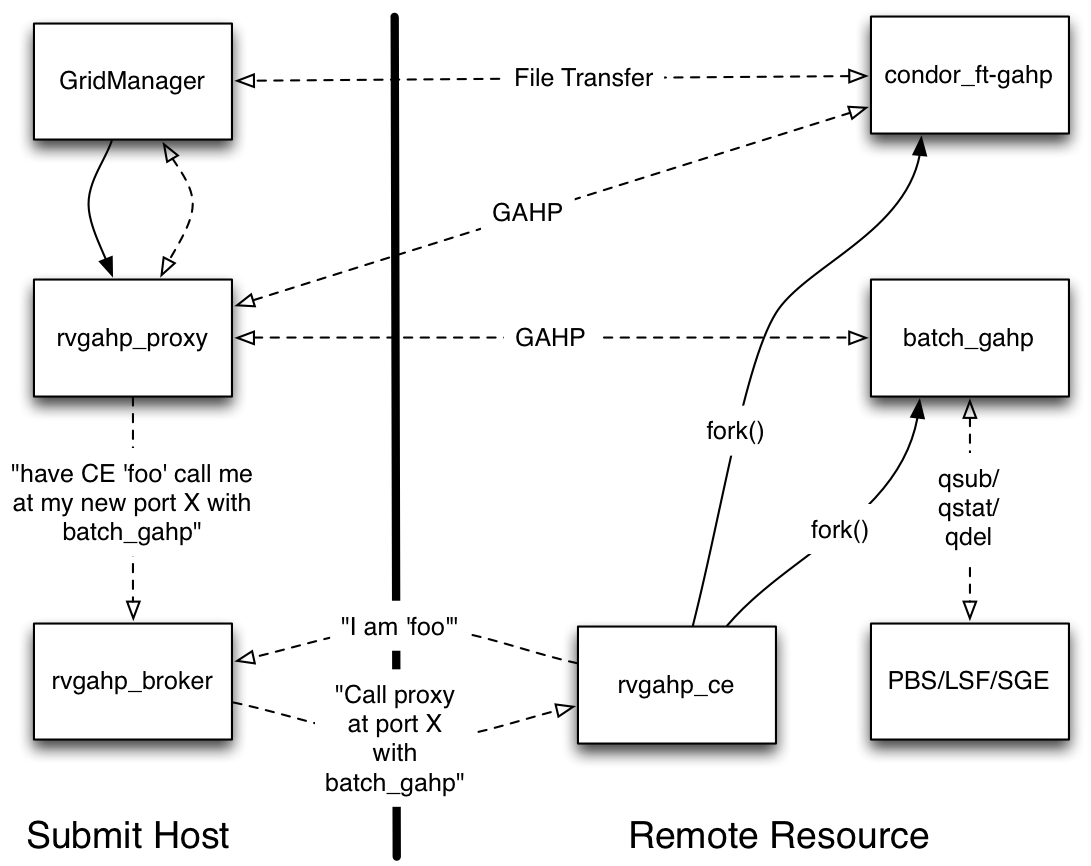
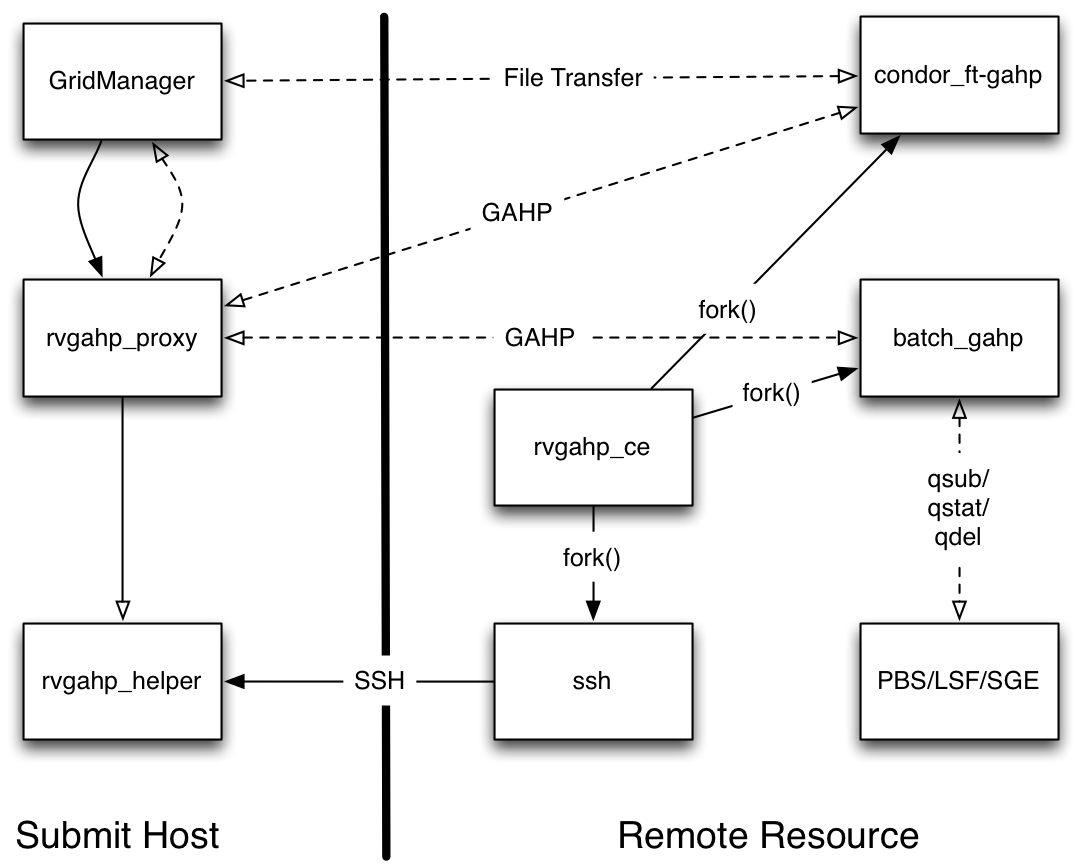
Update design for SSH

diff --git a/README.md b/README.md
@@ -13,21 +13,21 @@ It works like this:
 
 ![rvgahp design](doc/rvgahp.png)
 
-The rvgahp_ce process calls the rvgahp_broker to register itself by name and
-maintains an open connection. If it gets disconnected, it tries to immediately
-reconnect. When a remote GAHP job is submitted, the GridManager launches an
-rvgahp_proxy process to communicate with the GAHP servers. The proxy binds to
-an ephemeral port in Condor's LOWPORT HIGHPORT range specified in the
-condor_config. After that, the proxy calls the broker and asks it to have the
-CE call it back and connect it to a new GAHP process. The proxy tells the
-broker which CE to contact (by name), which GAHP server to start (batch_gahp
-for job submission or condor_ft-gahp for file transfer), and what its address
-is (including the ephemeral port number). The CE connects to the proxy,
-launches the GAHP server, and connects the stdio of the GAHP server to the
-socket. The proxy copies its stdin from the GridManager to the socket, and data
-from the socket to stdout and back to the GridManager. Once all connections are
-established, the job execution proceeds. When the GridManager is done, the GAHP
-servers exit and the connections are torn down.
+The rvgahp_ce uses SSH to establish a secure connection to the submit host.
+The SSH connection starts a helper process that listens on a UNIX domain
+socket for connections. If the SSH session gets disconnected, the CE
+immediately reconnects. When a remote GAHP job is submitted, the GridManager
+launches an rvgahp_proxy process to communicate with the GAHP servers. The
+proxy connects to the helper and sends the name of the GAHP to start (batch_gahp
+for job submission or condor_ft-gahp for file transfer). The helper forwards
+the request to the CE, which forks the GAHP and connects it to the SSH process
+using a socketpair. Once this is done, it immediately establishes another
+SSH connection to the submit host. The proxy copies its stdin from the
+GridManager to the helper, and data from the helper to stdout and back to the
+GridManager. The helper passes data to the SSH process, and the SSH process
+passes data to the GAHP. Once all connections are established, the job
+execution proceeds. When the GridManager is done, the GAHP servers exit and
+the connections are torn down.
 
 Configuration
 -------------
@@ -37,8 +37,6 @@ On your submit host:
 1. In your condor_config set:
 
     ```
-    LOWPORT = 50000
-    HIGHPORT = 51000
     REMOTE_GAHP = /path/to/rvgahp_proxy
     ```
 
@@ -60,8 +58,7 @@ On the remote resource:
     FT_GAHP_LOG = $(LOG)/FTGahpLog
     FT_GAHP = /usr/sbin/condor_ft-gahp
 
-    RVGAHP_BROKER_HOST = example.com
-    RVGAHP_BROKER_PORT = 41000
+    RVGAHP_CONNECTION = user@example.com
 
     # Name of the CE (needs to match grid_resource from job)
     RVGAHP_CE_NAME = hpcc
